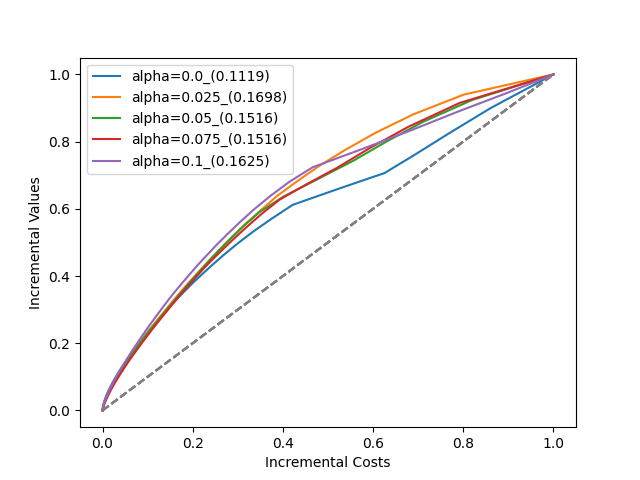
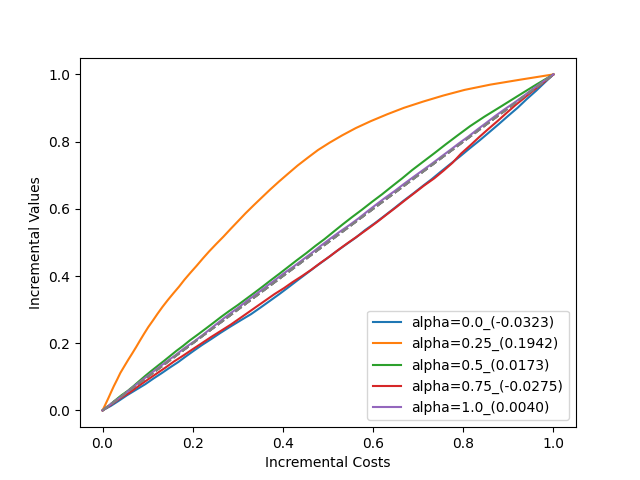
fix

diff --git a/main.py b/main.py
@@ -18,7 +18,7 @@ def main(predict_ps: bool, validate: bool) -> None:
     delta = 0.0
     ps_delta = 0.0
     alpha_list = []
-    _alpha_list = [0.0, 0.25, 0.5, 0.75, 1.0]
+    _alpha_list = [0.0, 0.025, 0.05, 0.075, 0.10]
     model_name = "Direct"
     model_params = (
         {"input_dim": n_features}
@@ -27,10 +27,10 @@ def main(predict_ps: bool, validate: bool) -> None:
     )
     method = "DR"
     only_rct = True if method == "Direct_only_RCT" else False
-    num_epochs_list = [100, 50]
+    num_epochs_list = [50, 50]
     weight_decay_list = [1e-3]
-    lr_list = [1e-3, 5e-3, 1e-2]
-    batch_size_list = [1024]
+    lr_list = [1e-4, 1e-3, 1e-2]
+    batch_size_list = [512, 1024, 2048]
     for rct_ratio in _alpha_list:
         alpha_list.append(rct_ratio)
         dataset = DatasetGenerator(

diff --git a/src/model/direct.py b/src/model/direct.py
@@ -122,9 +122,9 @@ class DirectNonLinear(nn.Module):
     def __init__(self, input_dim: int) -> None:
         super(DirectNonLinear, self).__init__()
         self.mlp = nn.Sequential(
-            nn.Linear(input_dim, input_dim),
-            nn.ReLU(),
-            nn.Dropout(0.1),
+            # nn.Linear(input_dim, input_dim),
+            # nn.ReLU(),
+            # nn.Dropout(0.1),
             # nn.Linear(2 * input_dim, input_dim),
             # nn.ReLU(),
             # nn.Dropout(0.3),

diff --git a/inference.py b/inference.py
@@ -49,7 +49,10 @@ def inference(
     test_dl: DataLoader,
 ) -> None:
     roi_dic = {}
-    method_list = ["DR", "Direct", "Direct_only_RCT"]
+    method_list = [
+        "DR",
+        # "Direct", "Direct_only_RCT"
+    ]
 
     for method in method_list:
         path = f"model_{method}.pth"
